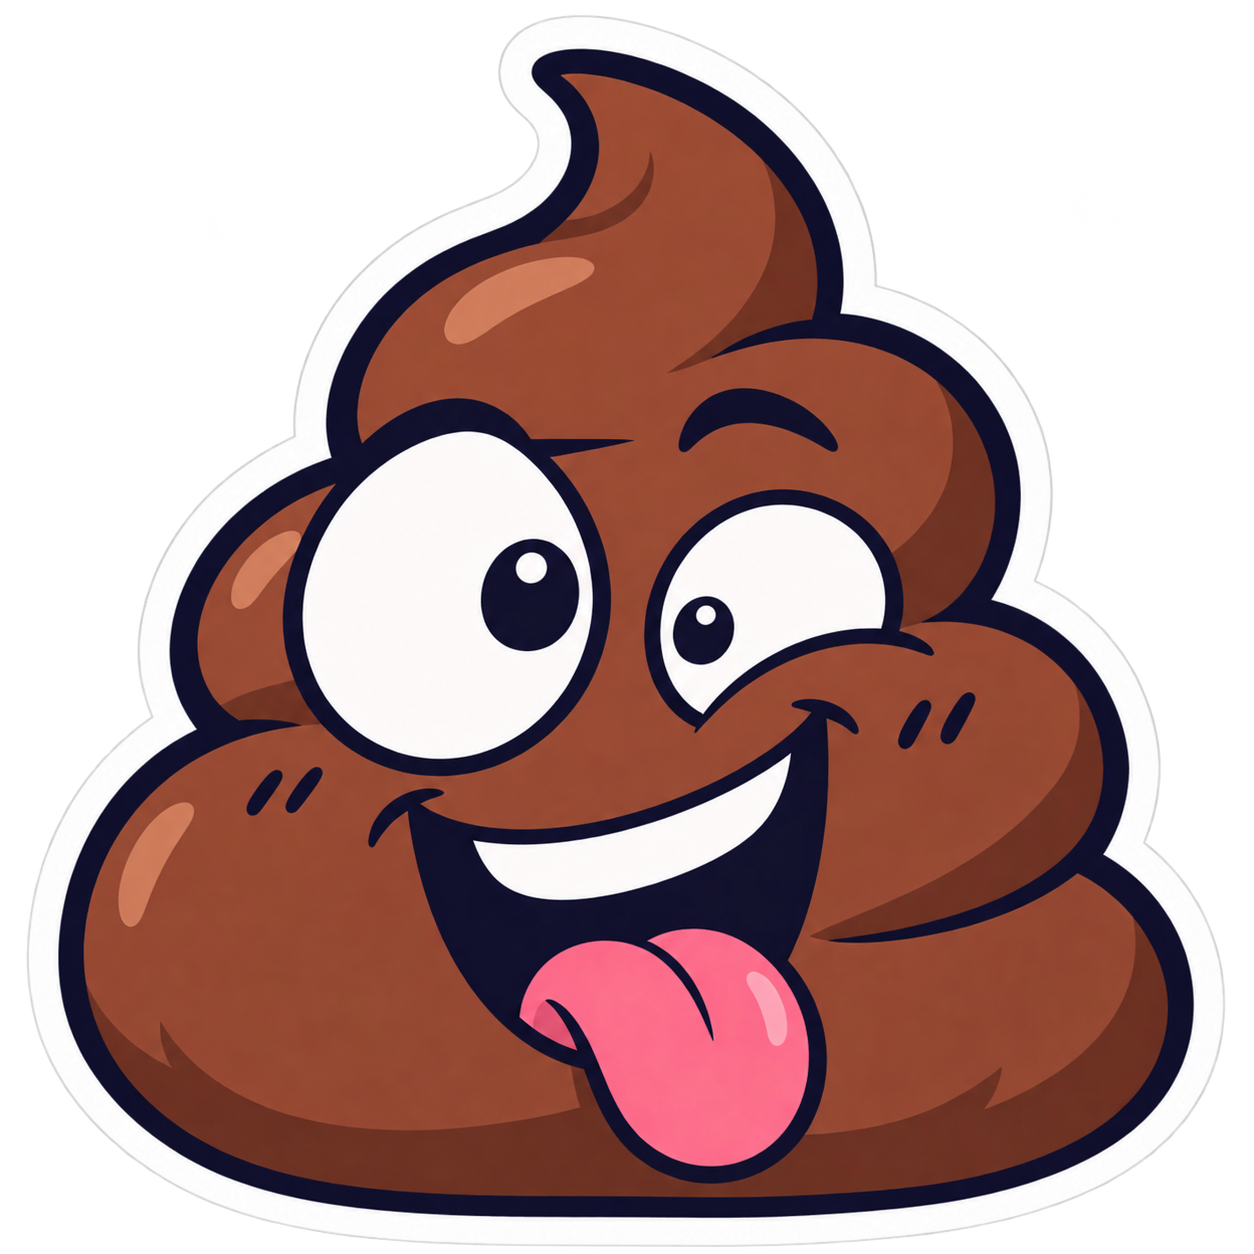
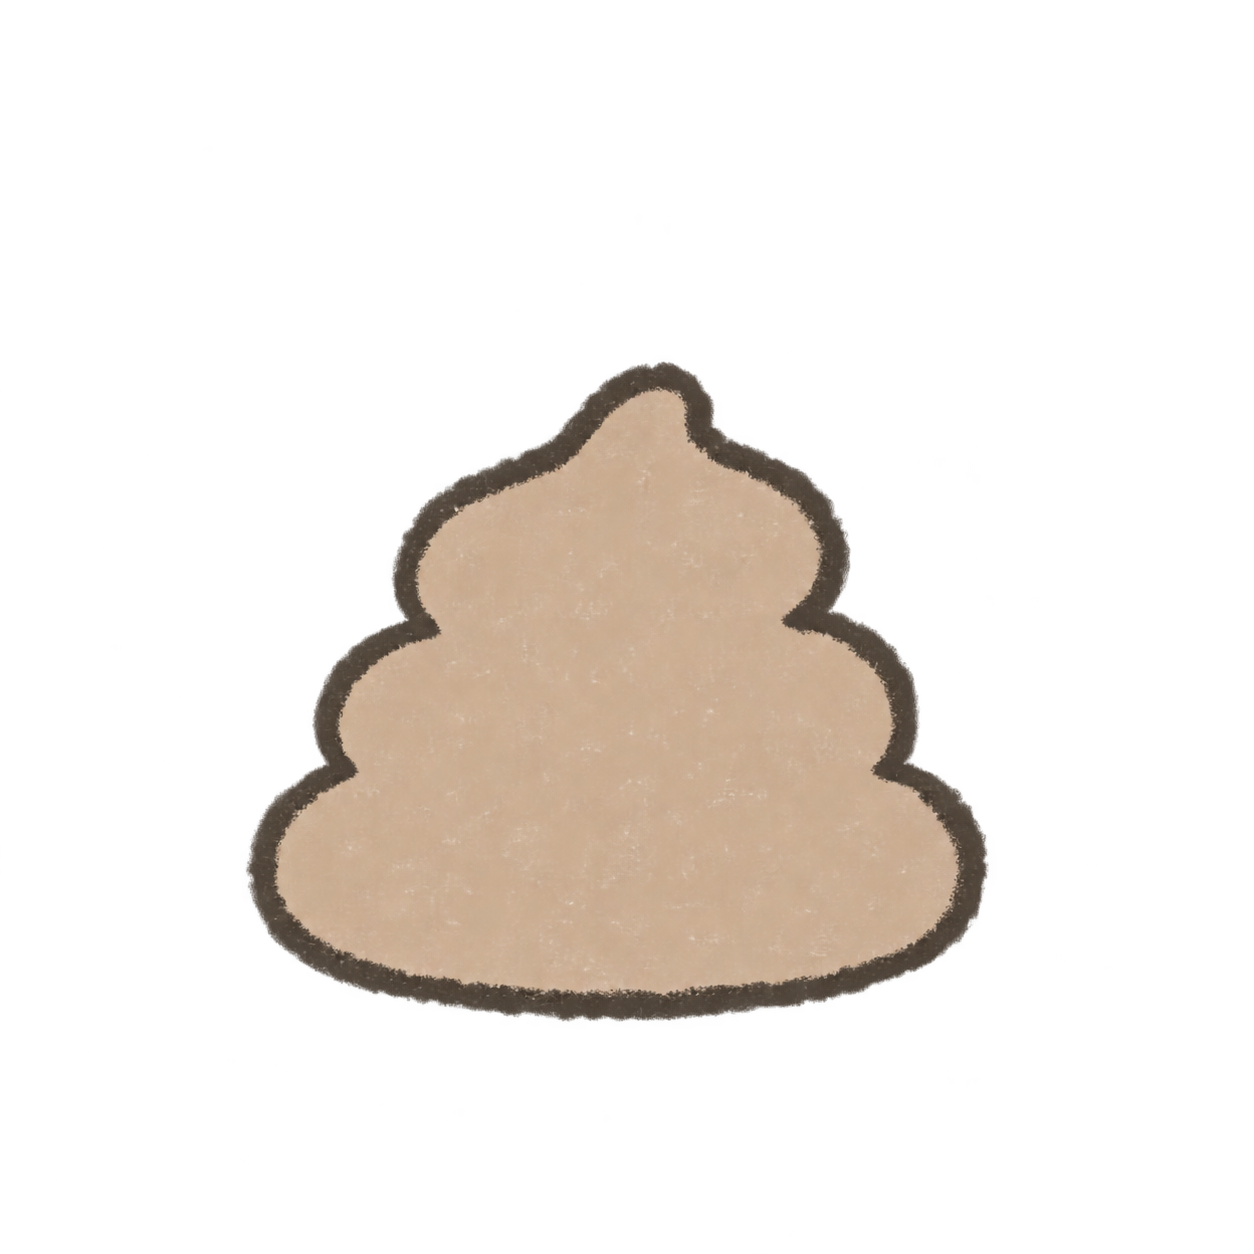
fixed stickers

diff --git a/src/scenes/PhotoBooth.tsx b/src/scenes/PhotoBooth.tsx
@@ -4,7 +4,7 @@ import { playSound } from '../soundEffects';
 import { Modal } from '../components';
 import { photos } from '../content';
 import { stickerImages,photoBoothDimensions } from '../photoBoothAssets';
-import { photoLayout,stickerPlacement,moveSticker,defaultCaption,frameColors,initialCaption,initialStickers,stickerKinds,type Sticker,type StickerKind } from '../photoBoothModel';
+import { photoLayout,stickerPlacement,stickerDrawSize,moveSticker,defaultCaption,frameColors,initialCaption,initialStickers,stickerKinds,type Sticker,type StickerKind } from '../photoBoothModel';
 import { downloadBlob, useStored, useViewport } from '../lib';
 const assetCache=new Map<string,Promise<HTMLImageElement>>();
 function loadImage(src:string){if(!assetCache.has(src))assetCache.set(src,new Promise((resolve,reject)=>{const i=new Image();i.onload=()=>resolve(i);i.onerror=reject;i.src=src;}));return assetCache.get(src)!;}
@@ -26,7 +26,7 @@ export default function PhotoBooth(){
   ctx.textAlign='center';ctx.fillStyle='#25456e';const text=caption||defaultCaption;const textWidth=print.width-100;let size=44;
   ctx.font=`italic ${size}px Georgia,"LXGW WenKai",serif`;while(ctx.measureText(text).width>textWidth&&size>14){size--;ctx.font=`italic ${size}px Georgia,"LXGW WenKai",serif`;}
   ctx.fillText(text,print.width/2,print.captionY,textWidth);ctx.font='14px sans-serif';ctx.letterSpacing='3px';ctx.fillText('Pesticide Nov 2026',print.width/2,print.footerY,textWidth);ctx.letterSpacing='0px';
-  for(const s of stickers){if(s.id===landing?.id)continue;const img=await stickerImage(s.kind);const placed=stickerPlacement(s,print);ctx.save();ctx.translate(placed.x,placed.y);ctx.rotate(s.angle*Math.PI/180);ctx.shadowColor='#25456e22';ctx.shadowBlur=8;ctx.shadowOffsetY=6;ctx.drawImage(img,-placed.size/2,-placed.size/2,placed.size,placed.size);ctx.restore();}
+  for(const s of stickers){if(s.id===landing?.id)continue;const img=await stickerImage(s.kind);const placed=stickerPlacement(s,print);ctx.save();ctx.translate(placed.x,placed.y);ctx.rotate(s.angle*Math.PI/180);ctx.shadowColor='#25456e22';ctx.shadowBlur=8;ctx.shadowOffsetY=6;const drawn=stickerDrawSize(img.width,img.height,placed.size);ctx.drawImage(img,-drawn.width/2,-drawn.height/2,drawn.width,drawn.height);ctx.restore();}
   if(active&&canvas.current){canvas.current.width=print.width;canvas.current.height=print.height;canvas.current.getContext('2d')!.drawImage(off,0,0);setReady(true);if(failed)setStatus('That photograph couldn’t be loaded. Try choosing a local image.');}
  }
  draw().catch(()=>{if(active)setStatus('The composition couldn’t be drawn. Please try another photo.');});return()=>{active=false;};},[photo,uploaded,frame,caption,stickers,landing]);

diff --git a/src/photoBoothModel.ts b/src/photoBoothModel.ts
@@ -24,6 +24,11 @@ export function photoLayout(width:number,height:number){
  return {width:Math.ceil(w+130),height:Math.ceil(h+230),photo:{x:65,y:65,width:w,height:h},captionY:65+h+70,footerY:65+h+125};
 }
 
+export function stickerDrawSize(width:number,height:number,size:number){
+ const scale=size/Math.max(width,height);
+ return {width:width*scale,height:height*scale};
+}
+
 export type PrintLayout=ReturnType<typeof photoLayout>;
 export function stickerPlacement(sticker:Sticker,layout:PrintLayout){
  const angle=sticker.angle*Math.PI/180;

diff --git a/src/styles.css b/src/styles.css
@@ -244,3 +244,6 @@
 
 /* Keep desktop chapter navigation clear of the hosting badge at bottom right. */
 @media(min-width:801px){.scene-footer{justify-content:flex-start;gap:18px}.scene-footer>button:last-child{text-align:left}}
+
+/* Match non-square sticker proportions during landing and in the exported print. */
+.sticker-landing .booth-sticker{object-fit:contain}

diff --git a/README.md b/README.md
@@ -49,7 +49,7 @@ The active chapter order is 00–06. Photo Booth leads directly to the Final Let
 
 The supplied recordings are bundled in `src/assets/audio/background-music.m4a` (Tightrope) and `src/assets/audio/all-of-me.m4a` (All of Me), and embedded in the portable HTML. One shared player alternates Tightrope → All of Me → Tightrope on repeat. Music waits for the first tap/click or key press if the browser blocks its initial start; explicit mute lasts for the current page session, and each fresh opening starts with music enabled. The header and Chapter 06 song dialog control the same player. Volume remains 35%, and playback continues across chapters.
 
-Chapter 05 uses six transparent cartoon PNG stickers generated with the built-in image_gen tool. The same assets appear in the tray, landing animation and exported print. See `src/assets/stickers/GENERATION.json` for the final prompts and saved file paths.
+Chapter 05 uses six transparent, soft hand-drawn PNG stickers generated with the built-in image_gen tool from Carrie’s references. The same assets appear in the tray, landing animation and exported print. See `src/assets/stickers/GENERATION.json` for the final prompts and saved file paths.
 
 The submitted Chapter 06 letter and 2023 archive are paginated text, preserving the cipher, list and historical line breaks. Full Chinese font data is included under `src/assets/fonts/` for reproducible source builds.
 
@@ -60,3 +60,5 @@ Eight quiet CC0 Foley effects are bundled for buttons, paper turns, capsules, fo
 The expanded sound families distinguish navigation, object/frame selection, playful reveals/stickers, typing and passport stamping. Variants cycle without immediate repeats; the original eight effects remain available. See the expansion section of `SOUND-CREDITS.md` for the mapping and test limits.
 
 At the end of the magazine or passport, the book’s Next arrow continues to the next interactive chapter. Desktop chapter navigation sits beside Back, clear of the bottom-right hosting badge. Dispensed capsules cycle rose, gold, sage and blue.
+
+The current Photo Booth sticker pack uses faceless object doodles and a minimal baby penguin. A wide heart crown keeps its natural proportions in the editor, landing animation and PNG export. Older sticker versions remain archived outside the active app.

diff --git a/VERIFICATION.md b/VERIFICATION.md
@@ -1,5 +1,13 @@
 # Second-edition verification
 
+## November 9 update — Soft reference-led Photo Booth stickers
+
+- Replaced the six active sticker PNGs using the built-in image_gen tool and the user’s six supplied style references. The bow, heart crown, star cluster, flower and poop have no faces. The penguin has only minimal natural eyes/beak, a small periwinkle bow and a heart envelope, matching the gentle reference style.
+- Preserved the native generated alpha without cropping or background removal. All PNGs have real transparency and complete opaque subjects inside the canvas. Generation prompts, input roles, saved/source paths and hashes are in `src/assets/stickers/GENERATION.json`; old sticker originals and user reference JPEGs are archived unchanged outside the active app.
+- The painted heart crown is a wide PNG. Sticker canvas rendering now fits each native aspect ratio within its existing size, and the landing image uses contain; it does not stretch the crown into a square. Existing six keys, saved placements, drag, keyboard, rotation/size, frame choices, captions and photo-shaped export remain intact.
+- Mock canvas/editor checks passed for all six new asset mappings and proportions, three original photos at four viewport inputs, add/remove/size/rotate, landing/export guard, caption/frame controls, portrait uploads/rejection and PNG export flow. Unrelated source, chapter copy, audio, tab metadata and original personal media match the preceding delivery. Standard and portable builds passed; the new six PNGs are embedded and the retired active PNGs are absent from the portable build.
+- Generated images were visually inspected directly. The live browser connection remains unavailable, so no fresh website screenshot or live canvas/PNG rendering is claimed.
+
 ## November 9 update — End-of-spread navigation and varied capsule colors
 
 - The magazine’s final spread (or mobile page 6) Next arrow now continues to Chapter 02. Its corner arrow, ArrowRight and forward swipe use the same continuation. The passport’s final spread Next arrow/forward swipe continue to Chapter 04. Earlier page turns, reverse navigation and their original animation durations remain intact.
